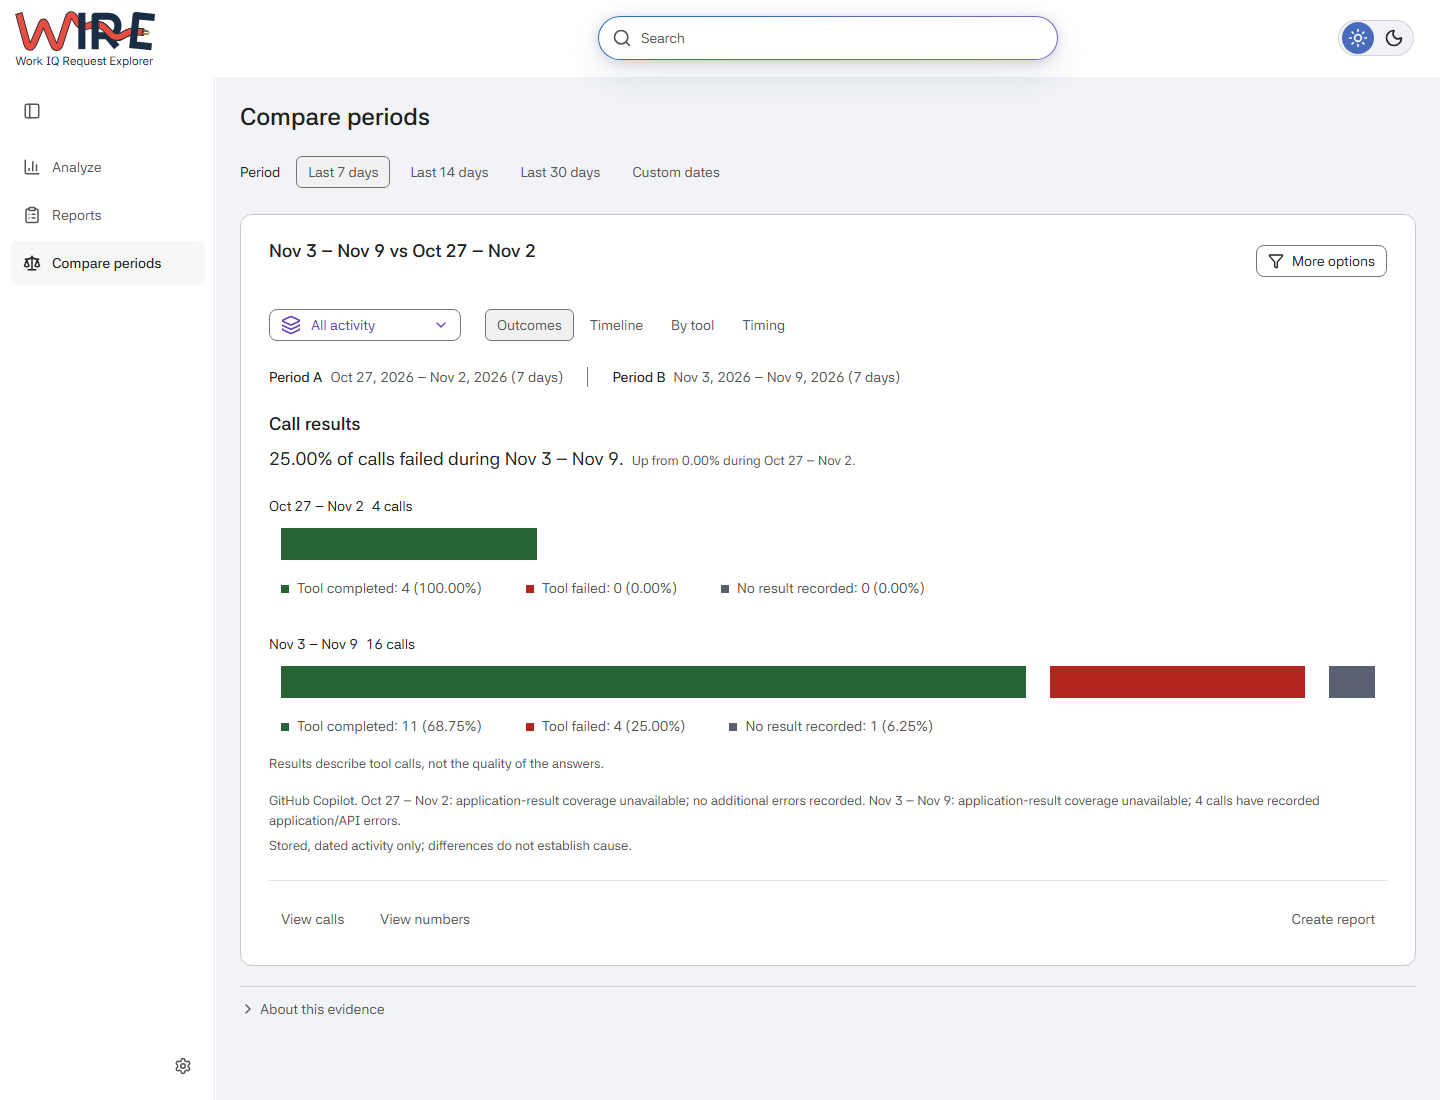
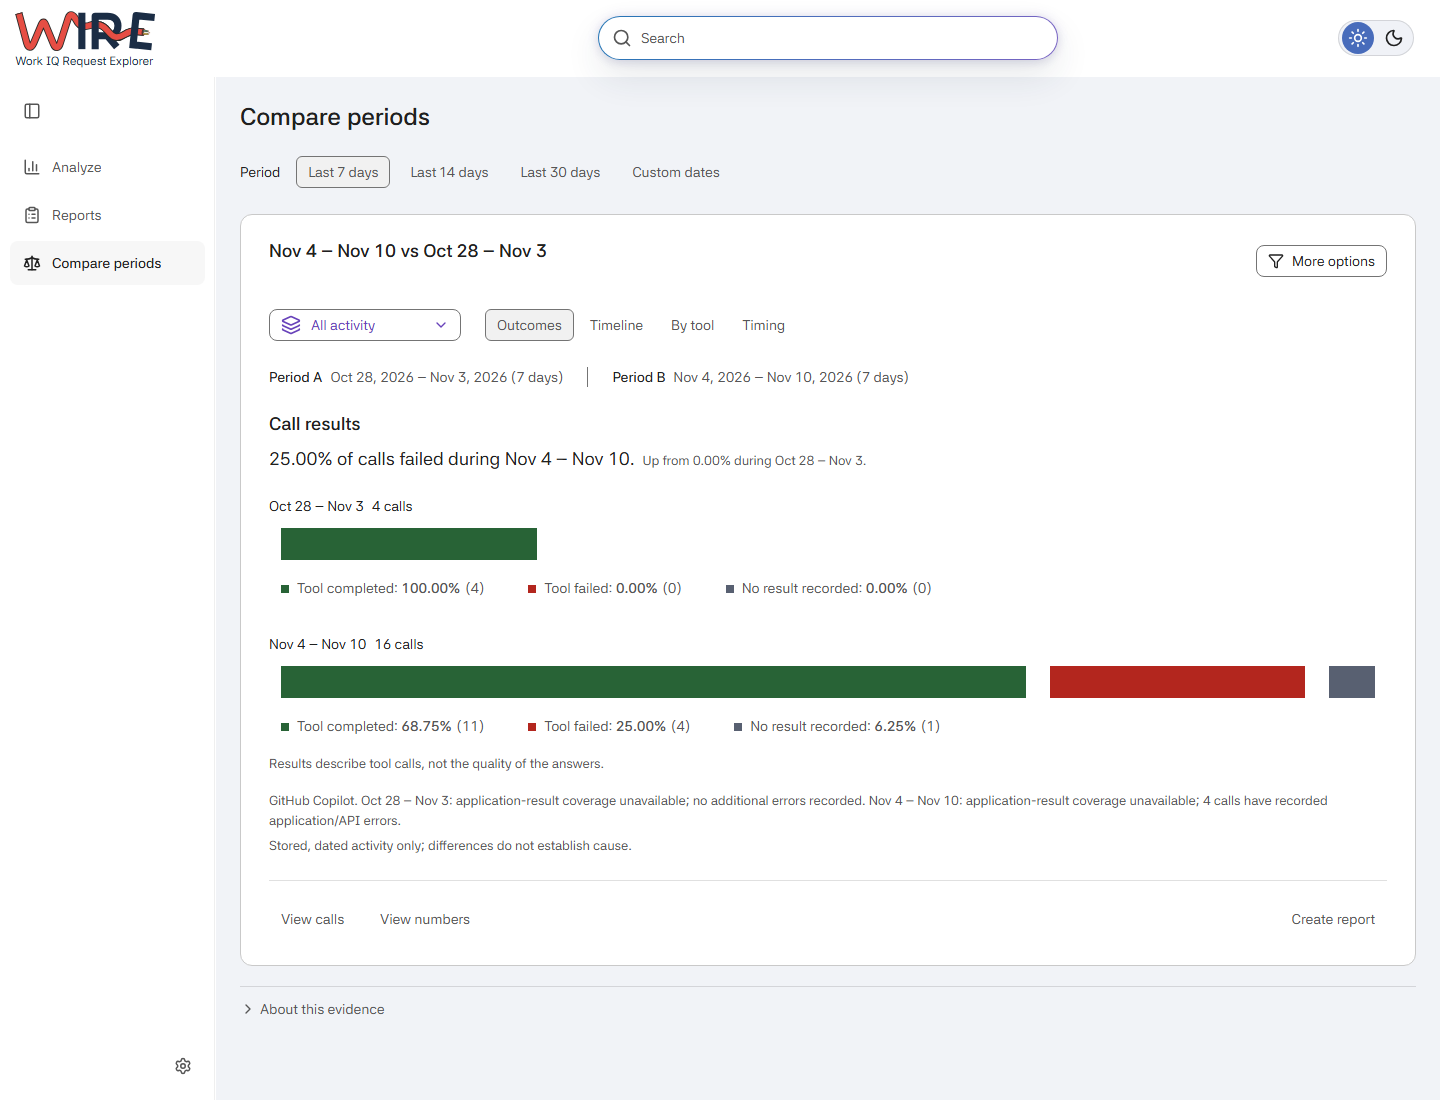
Refresh widget and compact prompt documentation screenshots
Capture the final screen candidate through the existing synthetic light-theme renderer and update only applicable image descriptions.

diff --git a/README.md b/README.md
@@ -20,7 +20,7 @@ Those real interactions can become the basis for better synthetic eval cases.
 Product teams and customers building agents on Work IQ APIs and MCP can use
 that evidence to test the behaviors people rely on and improve their agents.
 
-[![WIRE showing activity, recorded outcomes, tools and services beside an interaction with an access-denied diagnostic and a separate WIRE interpretation.](docs/images/wire-overview.png)](docs/images/wire-overview.png)
+[![WIRE showing percentage-first activity breakdowns beside a compact prompt preview and recorded call results.](docs/images/wire-overview.png)](docs/images/wire-overview.png)
 
 Search runs on-device without AI or provider calls. Reports save locally as
 HTML, PDF, JSON or Markdown, with detected personal details hidden by default.

diff --git a/docs/user-guide.md b/docs/user-guide.md
@@ -93,7 +93,7 @@ it. **Maximize interaction** fills the workspace below the toolbar;
 **Close interaction** leaves the reader instead. When space is limited, WIRE
 uses a single-pane reader and hides the sizing controls.
 
-![An interaction reader showing a retained access-denied diagnostic, a separate WIRE interpretation and the call's recorded operation and timing.](images/interaction.png)
+![An interaction reader with a compact prompt preview, recorded calls and timing, and a returned HTTP 403 explanation.](images/interaction.png)
 
 **My prompt**, **Agent prompt** and **Author unverified** describe supported
 origin evidence, not who executed or authorized every call. Choosing My and
